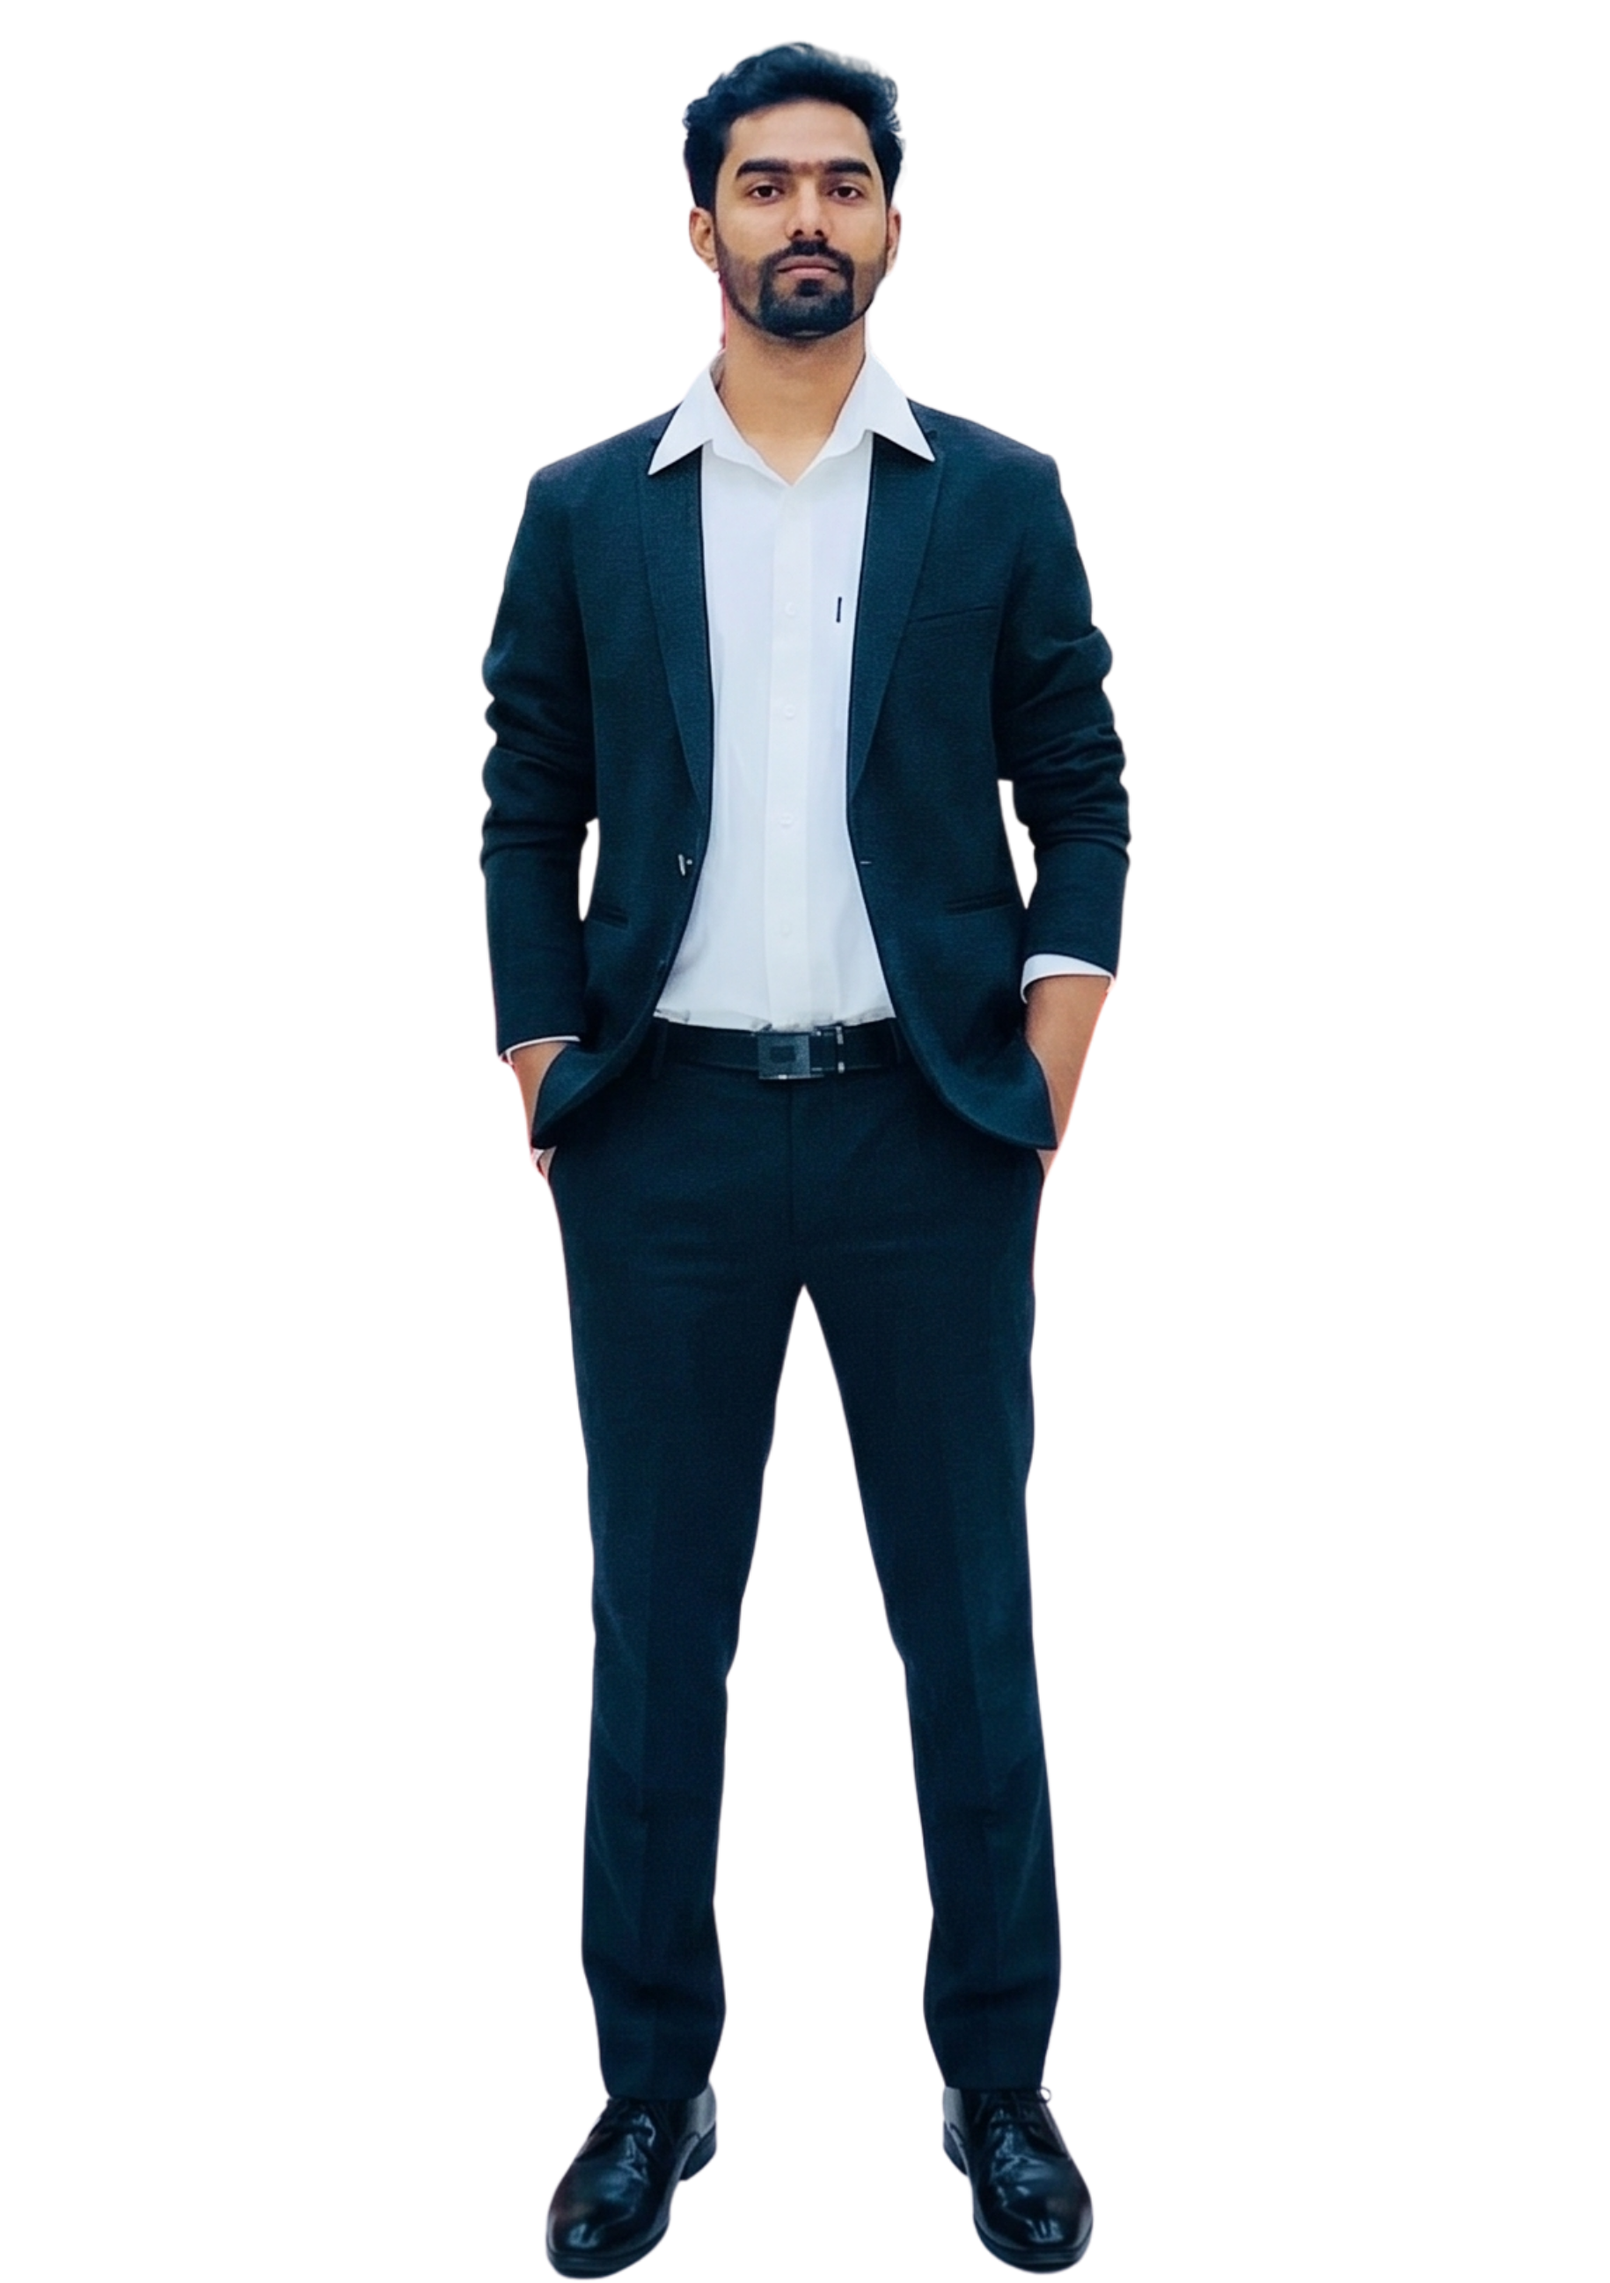
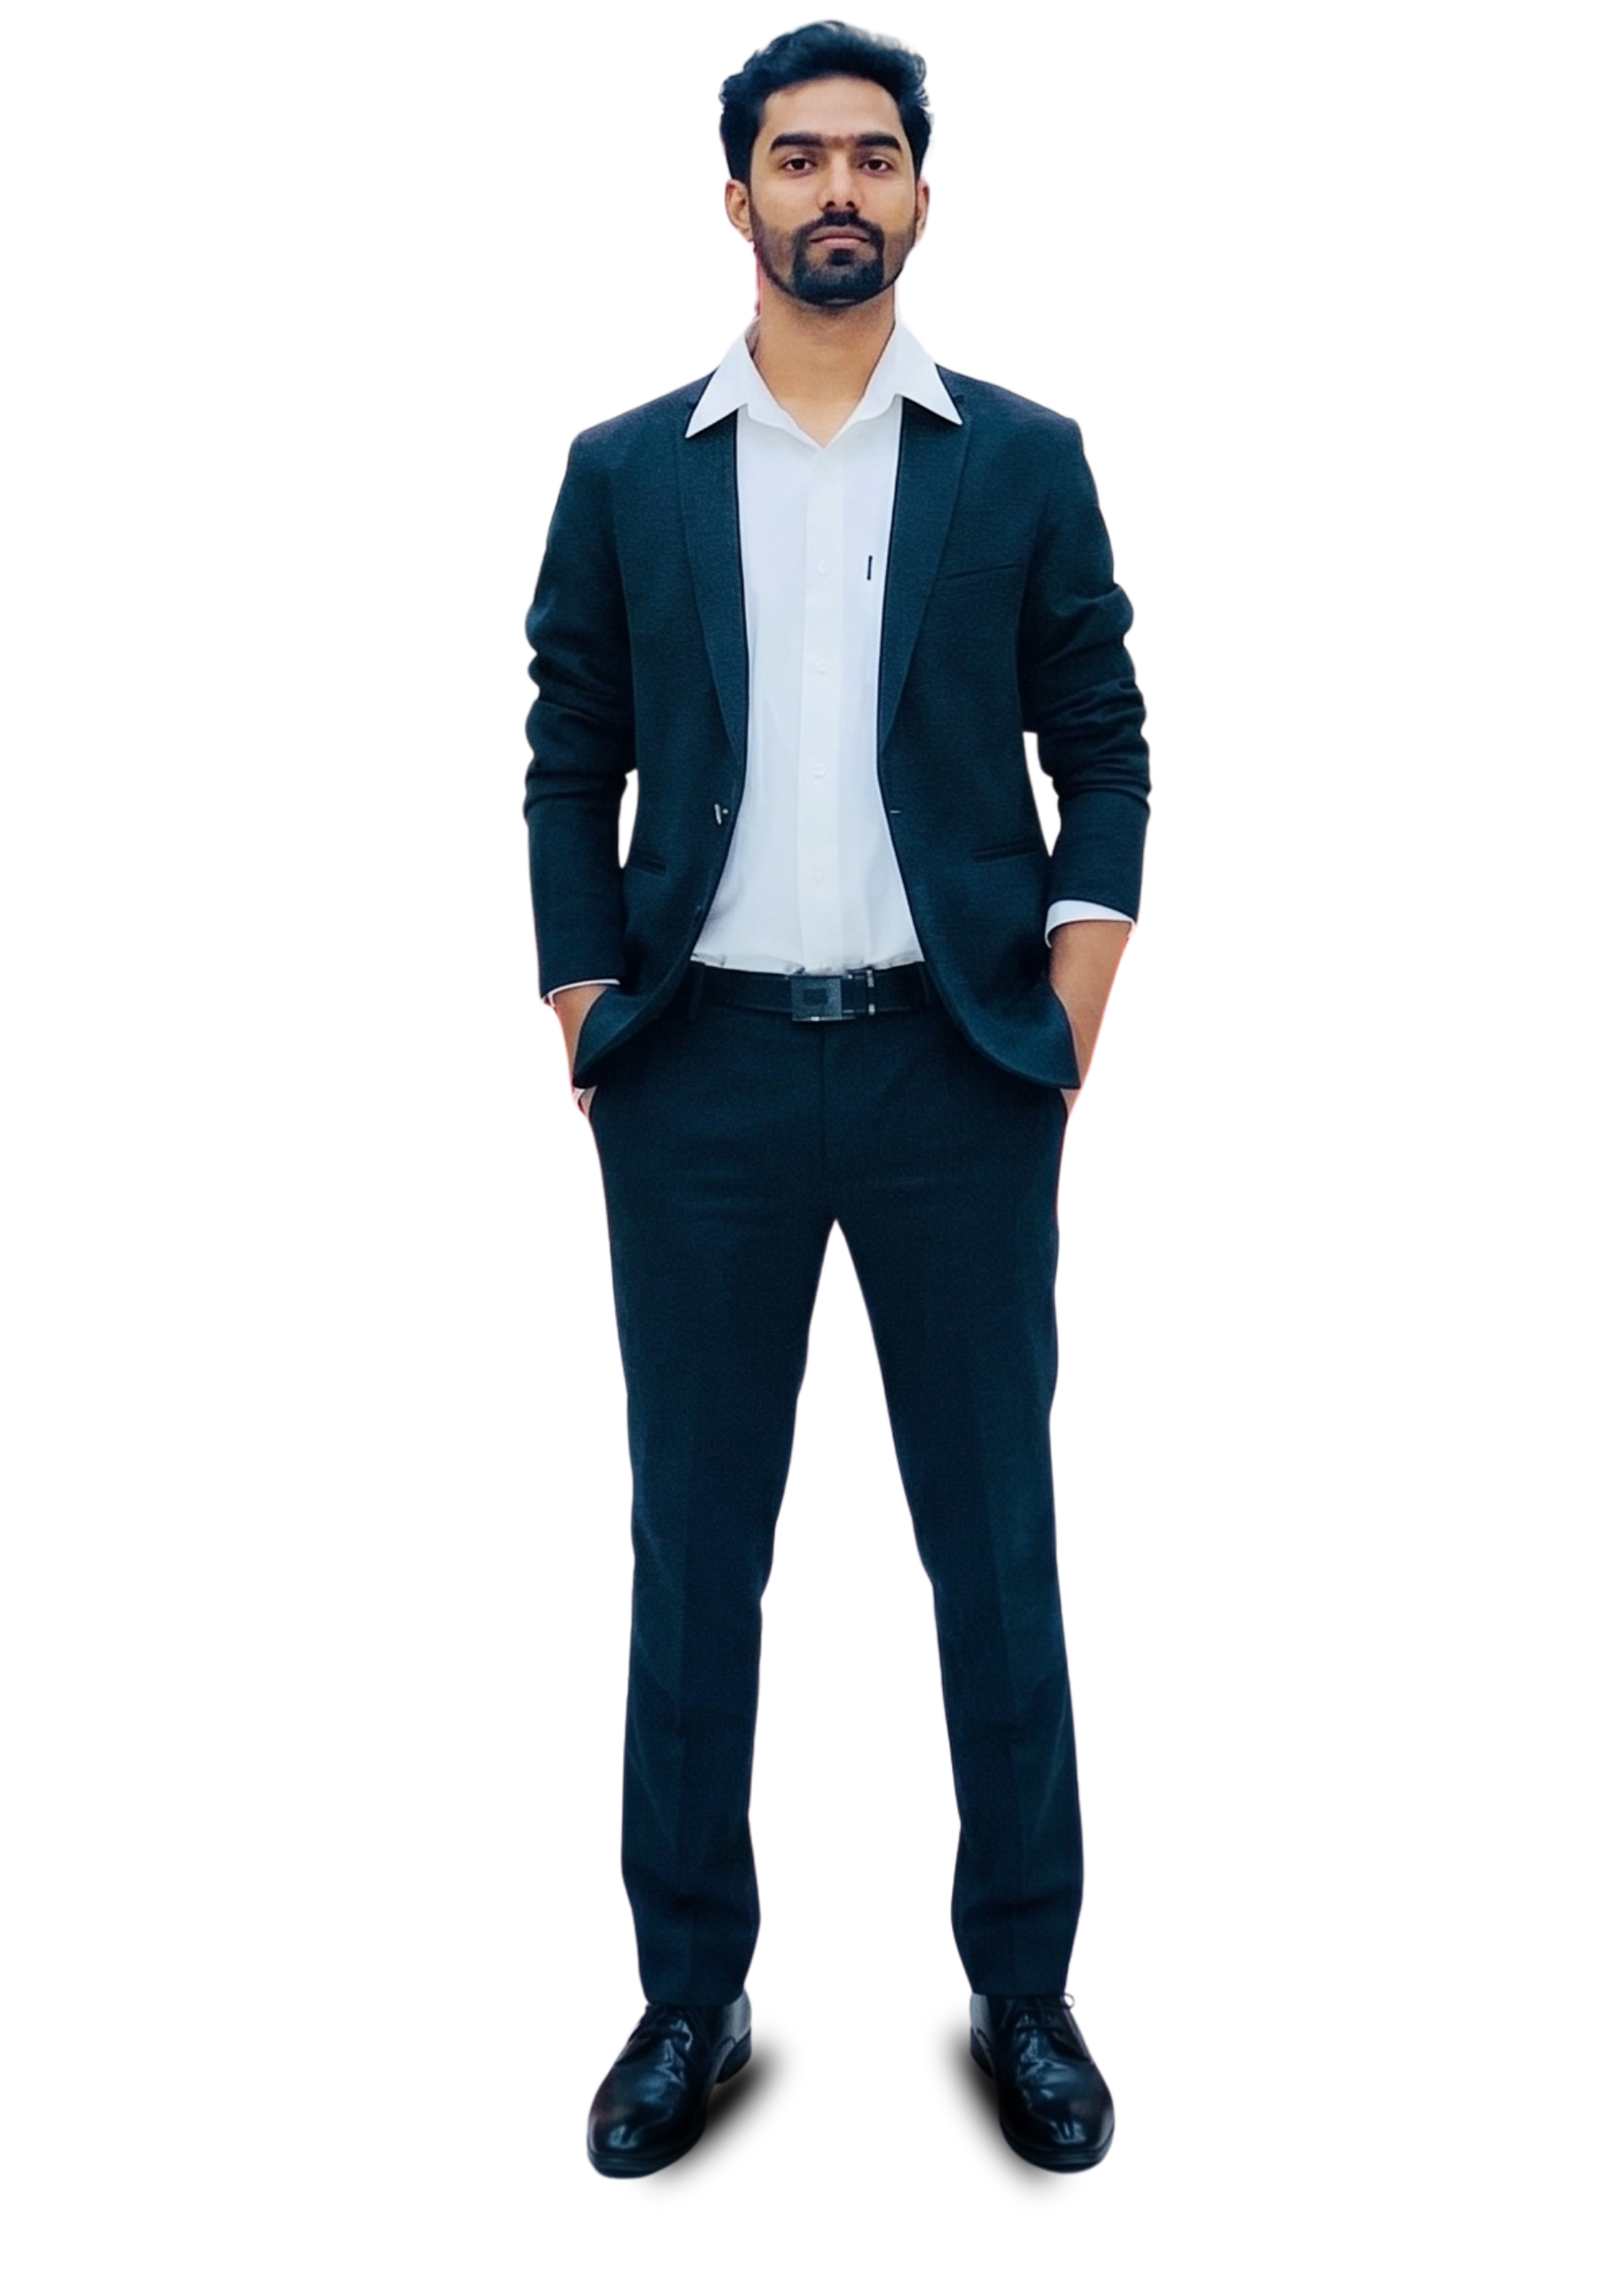
style: remove background shapes from graphic designer hero image

Changed region(s): [[0.2803, 0.0, 0.7164, 0.9988]]

diff --git a/graphics/index.html b/graphics/index.html
@@ -68,14 +68,6 @@
       <a href="#work" class="btn-primary">View Featured Work</a>
     </div>
     <div class="hero-image reveal" style="position: relative; display: flex; justify-content: center; align-items: flex-end; min-height: 500px;">
-      <!-- Professional Arch Background -->
-      <div style="position: absolute; bottom: 0; width: 320px; height: 460px; background: var(--primary); border-radius: 160px 160px 0 0; z-index: -1; opacity: 0.9;"></div>
-      
-      <!-- Subtle Decorative Elements -->
-      <div style="position: absolute; top: 10%; right: 0; width: 80px; height: 80px; border: 2px solid var(--primary); border-radius: 50%; opacity: 0.3; z-index: -2;"></div>
-      <div style="position: absolute; bottom: 15%; left: 0; width: 60px; height: 60px; background: var(--primary); opacity: 0.1; z-index: -2;"></div>
-      
-      <!-- Image with adjusted shadow -->
       <img src="../sonu-suit.png" alt="Sonu Kumar Portrait" style="width: 100%; max-width: 380px; display: block; filter: drop-shadow(0 15px 25px rgba(0,0,0,0.25)); z-index: 1;">
     </div>
   </header>
